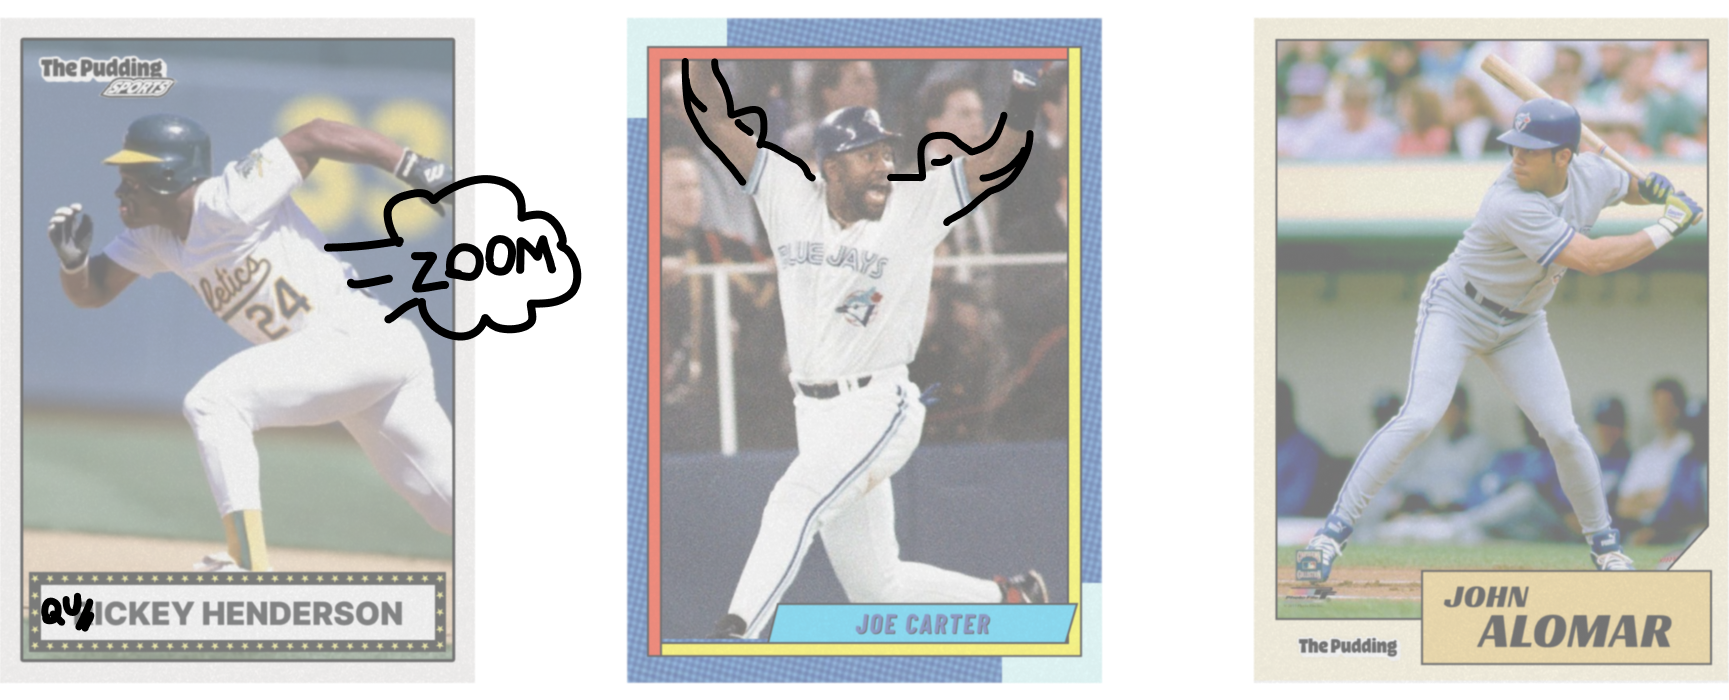
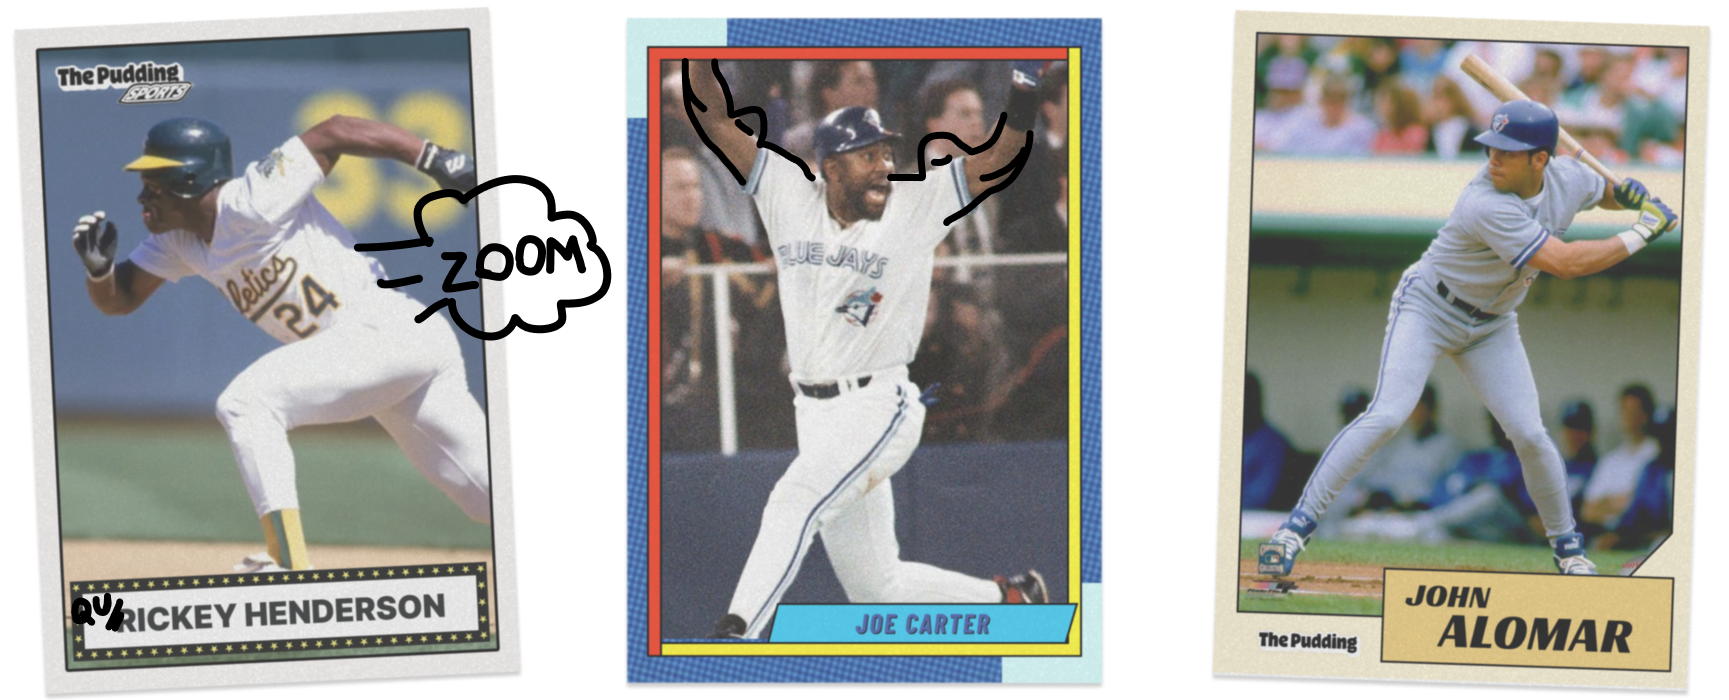
more hero

diff --git a/src/components/Index.svelte b/src/components/Index.svelte
@@ -126,7 +126,7 @@
 	img {
 		max-height: 25rem;
 		width: auto;
-		margin: auto;
+		margin: 2rem auto;
 	}
 	:global(#credits a) {
 		white-space: nowrap;
